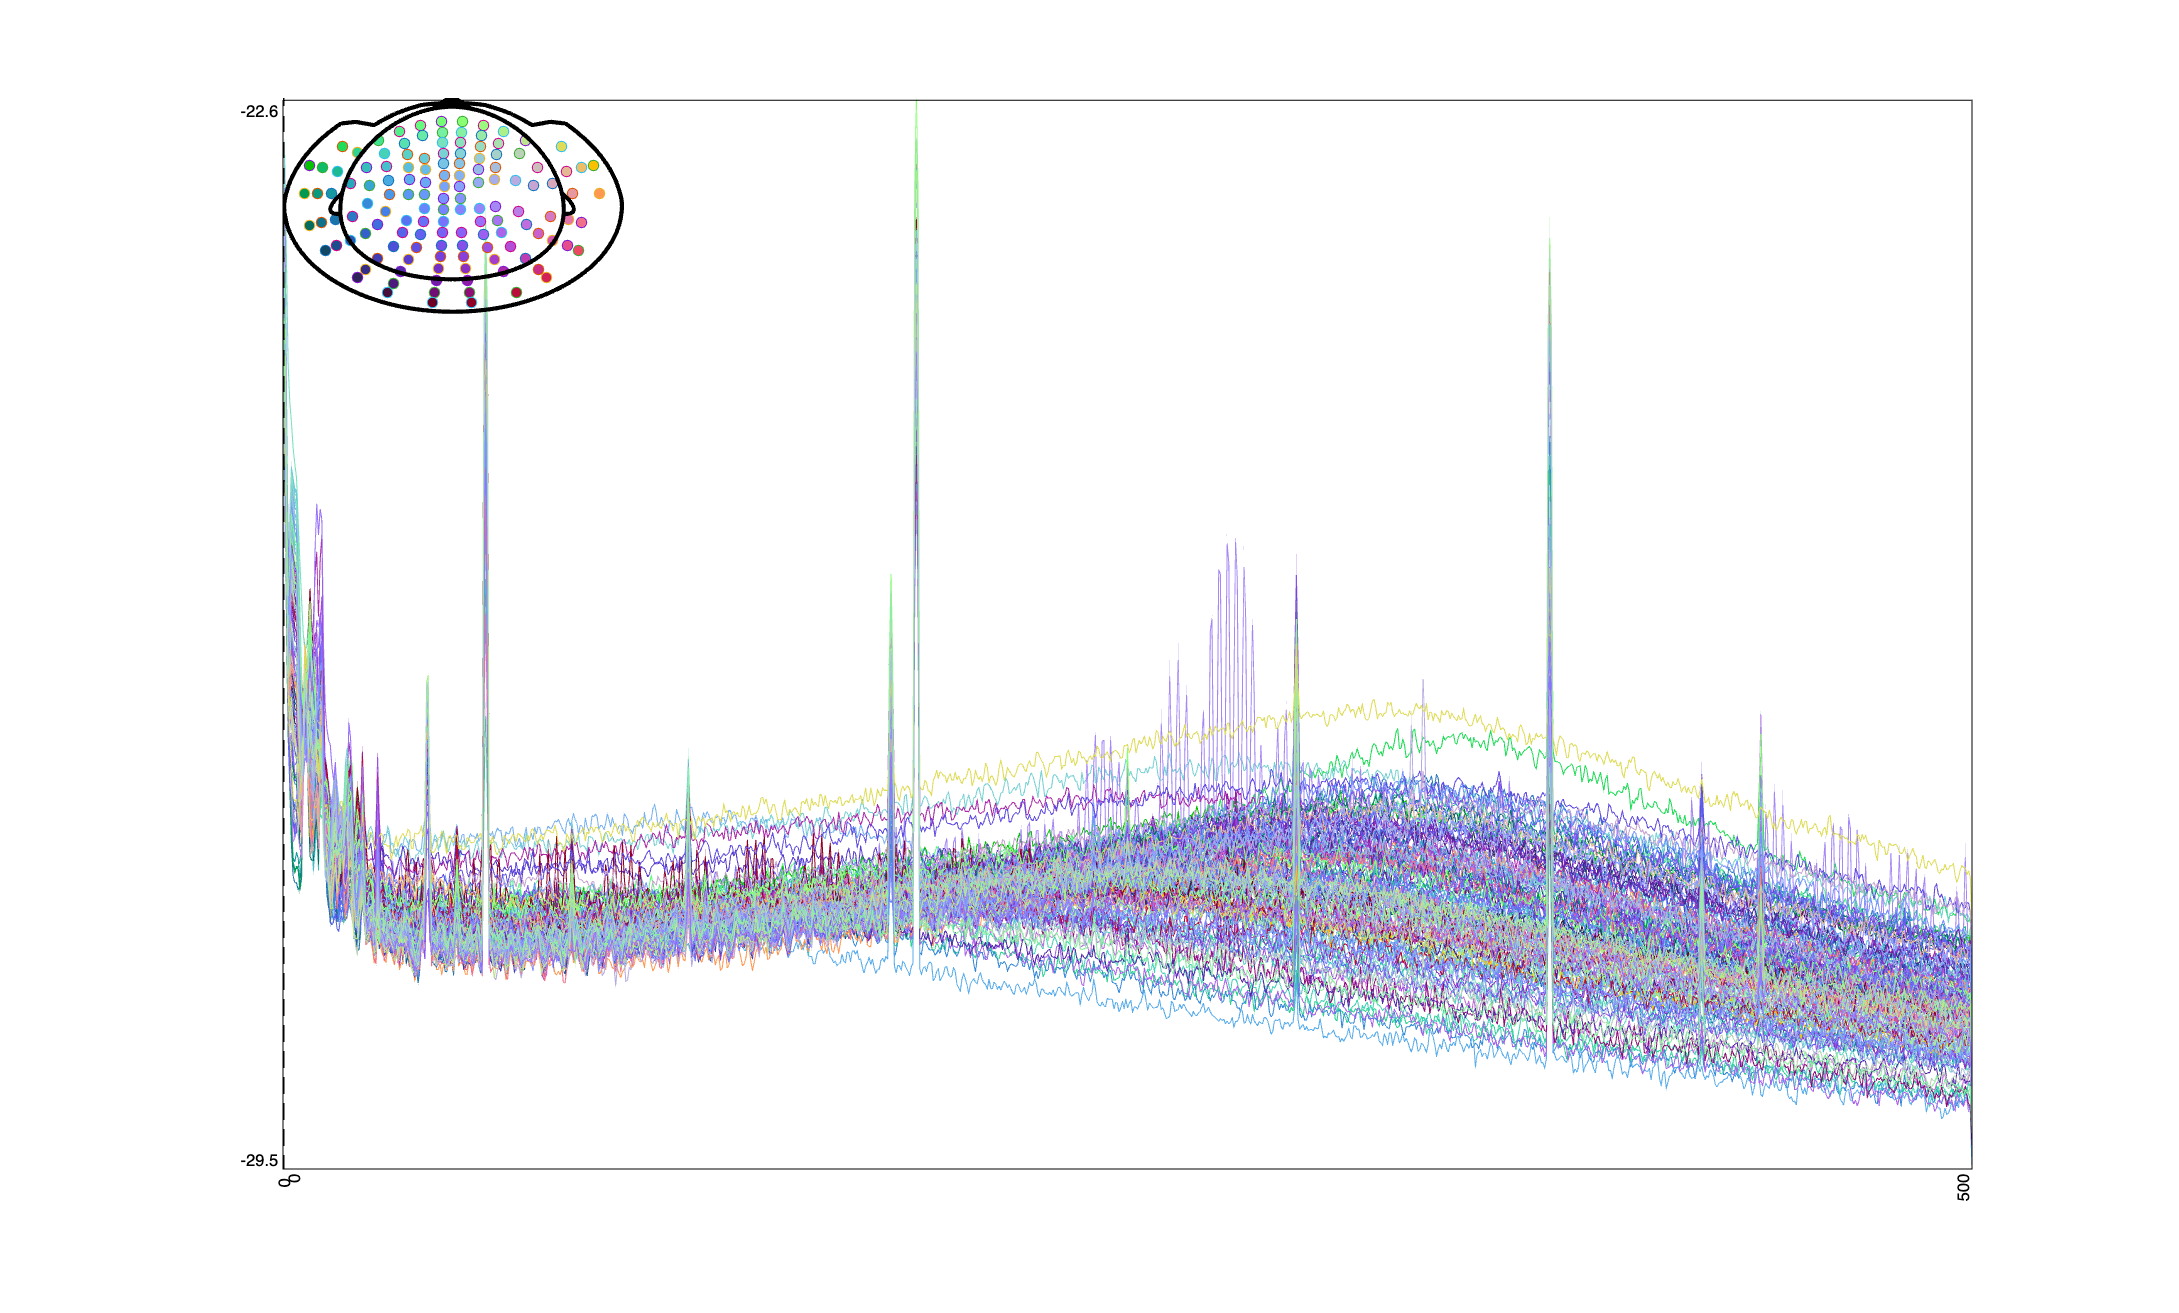
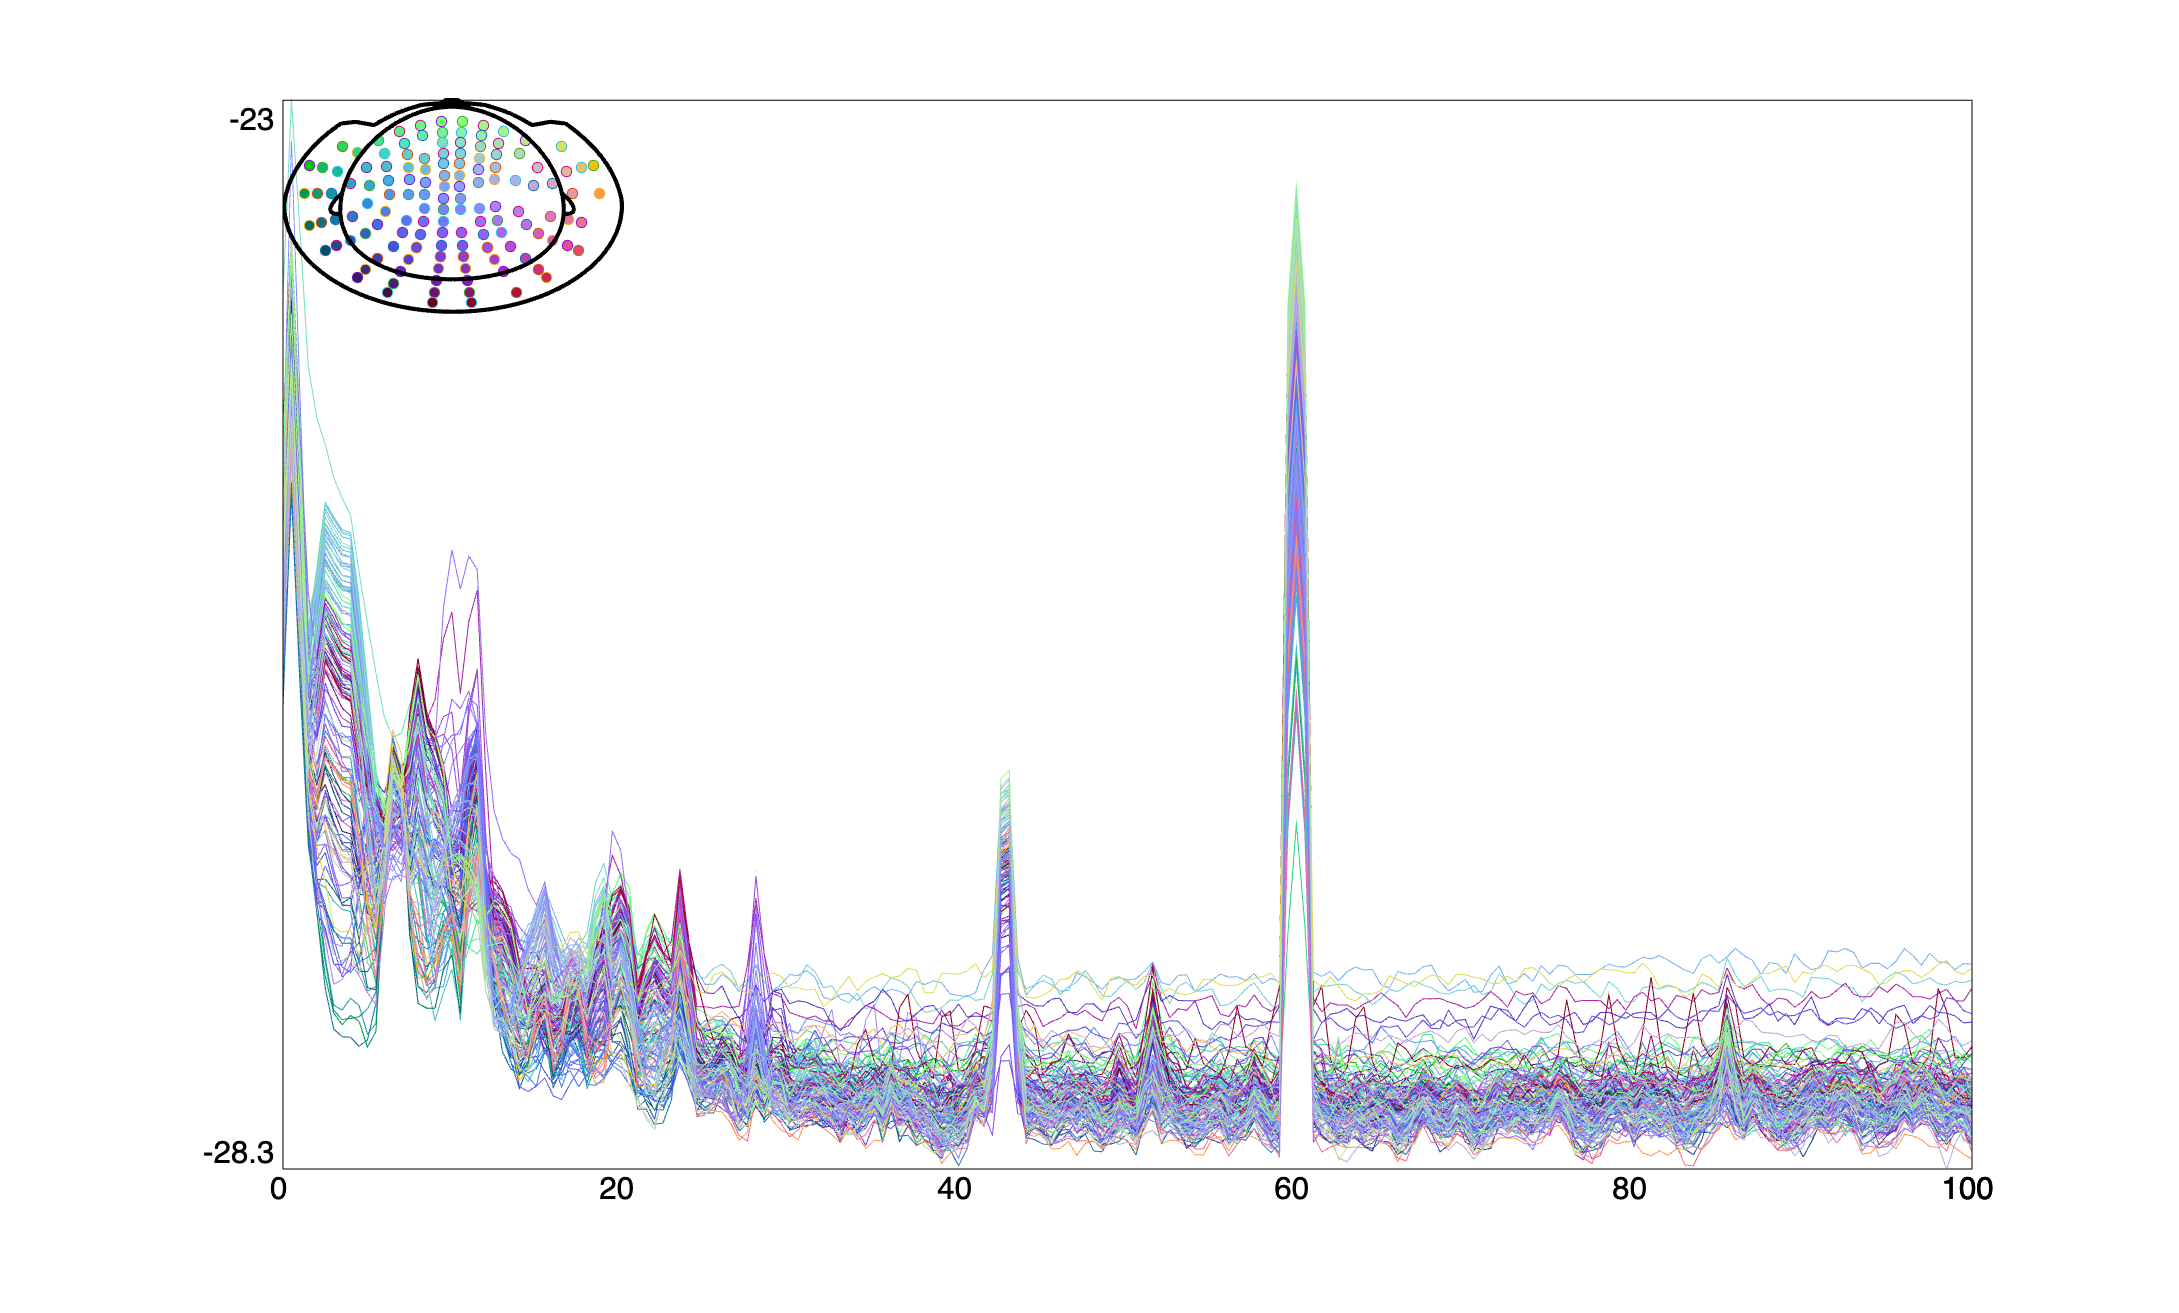
some improvements to the tutorial

Changed region(s): [[0.1248, 0.0937, 0.905, 0.9056], [0.0936, 0.8743, 0.156, 0.9056], [0.0936, 0.0625, 0.1248, 0.0937]]

diff --git a/tutorial/preproc/denoising_opm.md b/tutorial/preproc/denoising_opm.md
@@ -268,20 +268,55 @@ The **[ft_timelockanalysis](/reference/ft_timelockanalysis)** function computes 
 
 {% include image src="/assets/img/tutorial/denoising_opm/erf_nodenoise.png" width="500" %}
 
+The most striking feature of the above image is antiphasic waxing and waning pattern of the sets of green (frontal) and purple (occipital) sensors. If we select an early latency time window (by left clicking and dragging on top  of the open figure) around the first green peak (i.e. around time point 0), we obtain a topography that looks like this:
+
+{% include image src="/assets/img/tutorial/denoising_opm/erf_0to25ms.png" width="500" %}
+
+Clearly, this looks very much like the topography of one of the principal components identified in the emptyroom data. Also if we now zoom in on the latency between 70 and 75 ms, we obtain a topography that looks like this:
+
+{% include image src="/assets/img/tutorial/denoising_opm/erf_70to75ms.png" width="500" %}
+
+Here, we may observe - albeit faintly - a dipolar visual evoked field pattern with right hemispheric dominance.
+
+Another way of evaluating the quality of the ERF, is to express the single trial data at each time point as a T-statistic against 0. One way to do this would be to use **[ft_timelockstatistics](/reference/ft_timelockstatistics)** using single trial data in the input. 
+
+```matlab
+cfg            = [];
+cfg.channel    = 'MEG';
+cfg.keeptrials = 'yes';
+tlck_trials    = ft_timelockanalysis(cfg, data);
+
+tlck_trials0 = tlck_trials;
+tlck_trials0.trial(:) = 0;
+
+nrpt   = numel(data.trial);
+design = [ones(1,nrpt) ones(1,nrpt)*2; 1:nrpt 1:nrpt];
+
+cfg           = [];
+cfg.method    = 'analytic';
+cfg.statistic = 'depsamplesT';
+cfg.design    = design;
+stat = ft_timelockstatistics(cfg, tlck_trials, tlck_trials0);
+```
+
+Here, we have created two data structures, one containing the single trial data in a 3-dimensional #trial x #channel x #time point matrix, and the other one containing a matrix with all zeros. This is needed, because the low-level FieldTrip functions that compute test statistics expect data from 2 conditions in the input. Using a data object with all zeros allows us to compute a T-statistic 'against 0'. Note that the T-statistic has not been computed here to assess statistical significance, it's used as a metric to quantify the reliability with which the averaged signals deviate from 0.
+
+
+
 ## Denoising with SSP
 
-Signal Space Projection (SSP) is a technique that removes noise components by projecting the data onto a subspace orthogonal to the noise components. Often these noise components are modelled as the largest principal components, i.e. spatial components that explain most of the variance in the data. We demonstrate two approaches: using the task data itself for SSP estimation, and using the emptyroom data.
+Signal Space Projection (SSP) is a technique that removes noise components by projecting the data onto a subspace orthogonal to the noise components. Often these noise components are modelled as the largest principal components, i.e. spatial components that explain most of the variance in the data. We demonstrate two approaches: using the task data itself for SSP estimation, and using the emptyroom data. In the previous section we have seen that even after averaging across multiple trials, the ERF still shows large amplitude fluctuations with a spatial topography that is similar to what we observed in the emptyroom measurement. 
 
 ```matlab
 % compute the SSPs on-the-fly and clean the task data
 cfg = [];
-cfg.channel = 'MEG';
+cfg.channel    = 'MEG';
 cfg.refchannel = 'MEG';
 data_ssp1 = ft_denoise_ssp(cfg, data, data);    % use the data itself for the ssp estimation
 data_ssp2 = ft_denoise_ssp(cfg, data, data_er); % use the emptyroom data for the ssp estimation
 ```
 
-The **[ft_denoise_ssp](/reference/ft_denoise_ssp)** function applies SSP denoising. In the first call, we use the task data itself as both the data to be cleaned and the reference for estimating the noise components. In the second call, we use the emptyroom data as the reference for noise estimation.
+The **[ft_denoise_ssp](/reference/ft_denoise_ssp)** function applies SSP denoising. In the first call, we use the task data itself as both the data to be cleaned and the reference for estimating the noise components. In the second call, we use the emptyroom data as the reference for noise estimation. 
 
 Now we can compare the result of the two different ways of cleaning by computing the ERF and displaying the results together
 